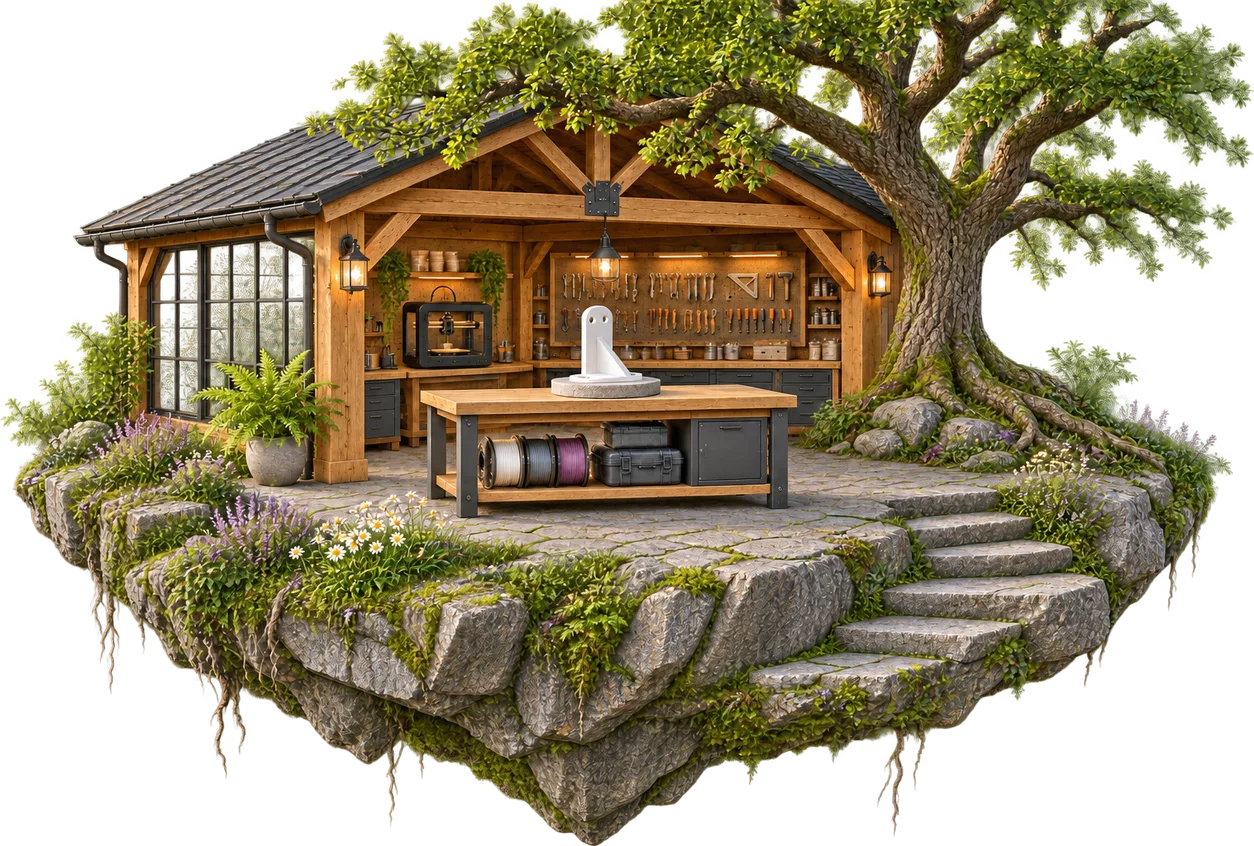
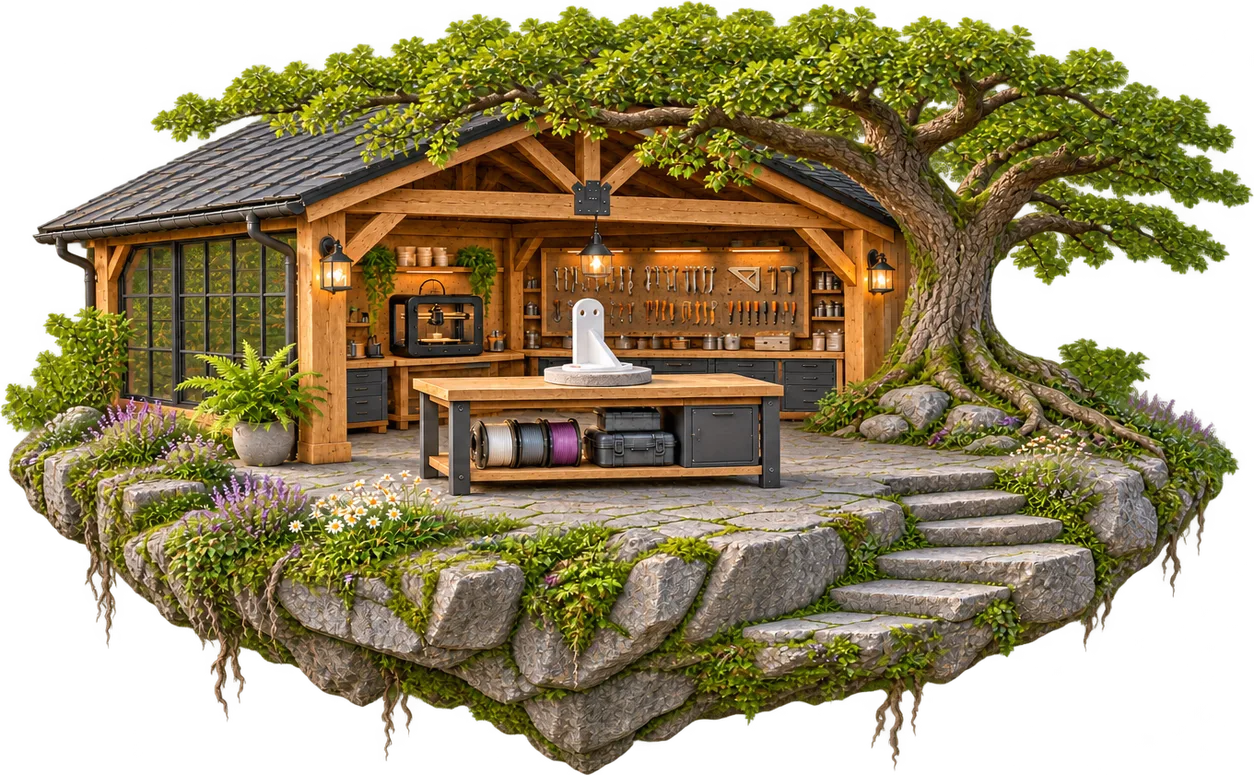
Projekte-Insel neu: Baumkrone jetzt vollständig im Bild
Neues Bild des Nutzers (Werkstattinsel mit Eiche und Werkbank) ersetzt das oben abgeschnittene; Maße in ISLAND_META, ASSET_VERSION 20261107b.

Claude-Session: https://claude.ai/code/session_01Bea5Y1uKo4kG3DT62iBBFM

diff --git a/src/scene/Island.tsx b/src/scene/Island.tsx
@@ -6,7 +6,7 @@ export const ISLAND_META: Record<LibraryIsland, { w: number; h: number; disc?: {
   werkstatt: { w: 1098, h: 1227 }, elektronik: { w: 1098, h: 1226 }, ideen: { w: 1094, h: 1224 },
   rahmen: { w: 1094, h: 1190 }, staffelei: { w: 1203, h: 1123 },
   // the six main islands (wide format, from the user's image package of 7 Nov 2026)
-  heute: { w: 1521, h: 1004 }, projekte: { w: 1517, h: 1024 }, druck: { w: 1483, h: 943 }, material: { w: 1506, h: 1003 }, wetter: { w: 1401, h: 939 }, archiv: { w: 1481, h: 881 },
+  heute: { w: 1521, h: 1004 }, projekte: { w: 1361, h: 841 }, druck: { w: 1483, h: 943 }, material: { w: 1506, h: 1003 }, wetter: { w: 1401, h: 939 }, archiv: { w: 1481, h: 881 },
   drucker: { w: 1081, h: 1188 },
   'projekt-garten': { w: 1081, h: 1167 }, 'projekt-haushalt': { w: 1080, h: 1168 }, 'projekt-fahrzeug': { w: 1080, h: 1209 }, 'projekt-buero': { w: 1080, h: 1186 },
   'projekt-hobby': { w: 1079, h: 1204 }, 'projekt-technik': { w: 1086, h: 1208 }, 'projekt-deko': { w: 1081, h: 1196 }, 'projekt-modell': { w: 1080, h: 1195 },
@@ -20,7 +20,7 @@ export const FRAME_BOX: Partial<Record<LibraryIsland, CSSProperties>> = {
   staffelei: { left: '28%', right: '28%', top: '21.5%', bottom: '46.5%' },
 };
 /** Bump when island sprites change: the CDN and browsers cache /img/* for a year (immutable), so the URL must change. */
-export const ASSET_VERSION = '20261107a';
+export const ASSET_VERSION = '20261107b';
 export const islandSrc = (id: LibraryIsland, w: 1254 | 640 | 256) => `/img/insel-${id}-${w}.webp?v=${ASSET_VERSION}`;
 
 export interface IslandProps {
